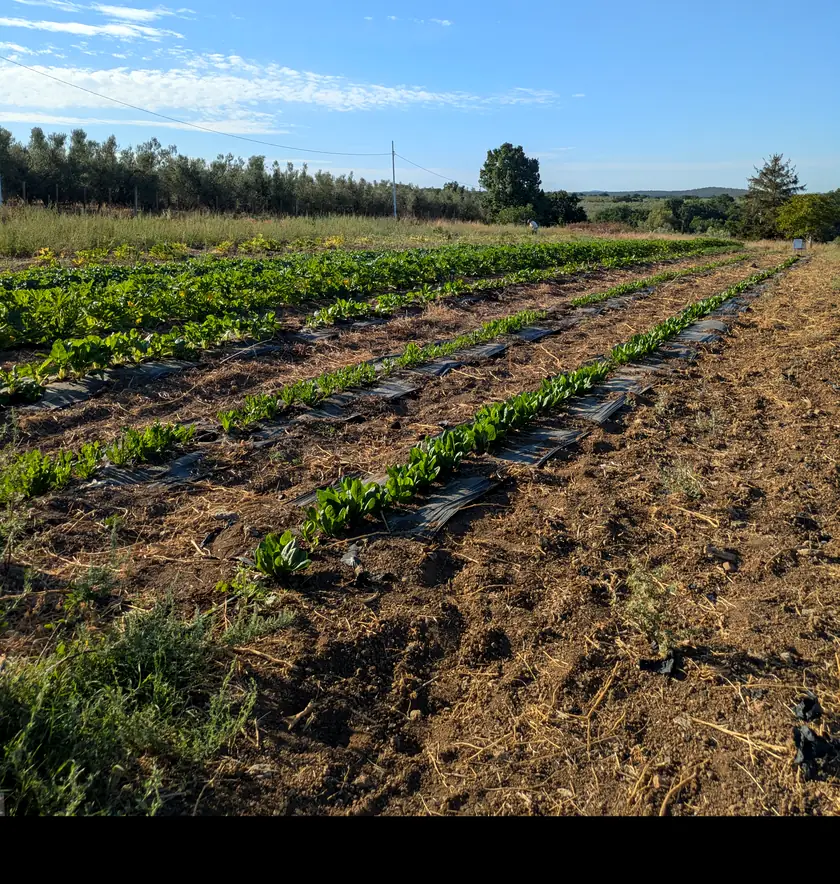
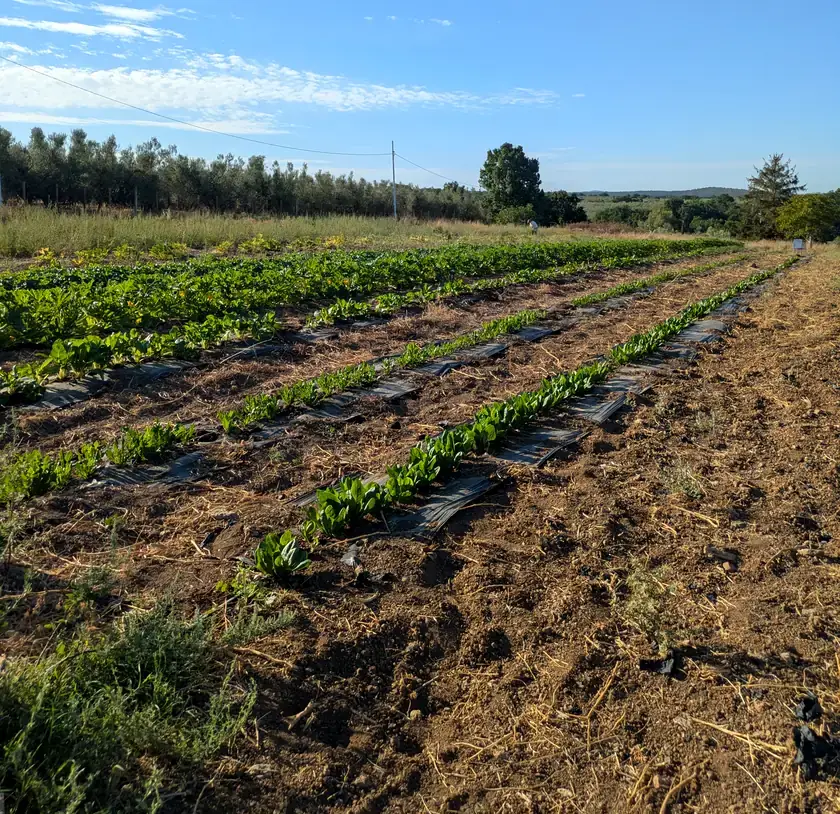
Campo 3D in apertura, con la foto vera del campo
Invece di ricostruire un campo finto, la foto reale riceve una profondita':
cielo e ulivi lontani, filari che si avvicinano verso il basso. Col mouse
(o inclinando il telefono, altrimenti ondeggia piano da solo) la scena gira
intorno a meta' campo: sul computer ulivi e cielo si spostano di ~20 px da
una parte, il primo piano di ~53 px dall'altra. Scorrendo si "entra" nel
campo: il primo piano si avvicina molto piu' dell'orizzonte. Settanta
granelli di polline a profondita' diverse seguono la stessa prospettiva.

WebGL puro in campo3d.js (9 KB), caricato a pagina pronta e solo se il
dispositivo lo regge: niente con "riduci movimento", risparmio dati o
processori da 2 core; se il WebGL manca resta la foto. Disegna solo mentre
l'apertura e' visibile. Verificato nel browser (tela pronta, 32 fps nel
pannello di prova) e riproducendo lo shader fotogramma per fotogramma su
computer e telefono.

Corretto anche un difetto della foto d'apertura per il telefono: il
ritaglio sforava il bordo dell'originale e in fondo c'erano 67 righe nere,
visibili sotto il pulsante. Tagliate. Cache offline a v18.

diff --git a/campo3d.js b/campo3d.js
@@ -1,0 +1,241 @@
+// Campo 3D in apertura.
+// La foto vera del campo riceve una profondita': cielo e ulivi lontani, filari che si
+// avvicinano verso il basso. Scorrendo si "entra" nel campo (le cose vicine si
+// ingrandiscono di piu'), col mouse o inclinando il telefono cambia la prospettiva.
+// Qualche granello di polline a profondita' diverse rende visibile lo spazio.
+// Se il WebGL non c'e', non succede niente: resta la foto normale.
+
+const VERTICE_FOTO = `
+attribute vec2 aPos;
+varying vec2 vUv;
+void main() {
+  vUv = vec2(aPos.x * 0.5 + 0.5, 0.5 - aPos.y * 0.5);
+  gl_Position = vec4(aPos, 0.0, 1.0);
+}`;
+
+const FRAMMENTO_FOTO = `
+precision mediump float;
+uniform sampler2D uFoto;
+uniform vec2 uScala;
+uniform vec2 uSpost;
+uniform vec2 uPunto;
+uniform float uAvanti;
+uniform float uOrizzonte;
+varying vec2 vUv;
+float vicinanza(float y) {
+  float s = clamp((y - uOrizzonte) / (1.0 - uOrizzonte), 0.0, 1.0);
+  return s * s * 0.7 + s * 0.3;
+}
+void main() {
+  vec2 uv = vUv * uScala + uSpost;
+  float n = vicinanza(uv.y);
+  vec2 fuga = vec2(0.5, uOrizzonte);
+  uv = fuga + (uv - fuga) / (1.0 + uAvanti * (0.08 + 0.62 * n));
+  uv += uPunto * vec2(0.052, 0.026) * (n - 0.15);
+  gl_FragColor = texture2D(uFoto, clamp(uv, vec2(0.002), vec2(0.998)));
+}`;
+
+const VERTICE_POLLINE = `
+attribute vec3 aSeme;
+uniform float uTempo;
+uniform vec2 uPunto;
+uniform float uAvanti;
+uniform float uOrizzonte;
+uniform float uDpr;
+varying float vAlfa;
+void main() {
+  float z = aSeme.z;
+  vec2 p = aSeme.xy;
+  p.y = fract(p.y - uTempo * (0.004 + 0.016 * z));
+  p.x += sin(uTempo * 0.45 + z * 23.0) * 0.012;
+  p += uPunto * vec2(0.052, 0.026) * (z - 0.15) * 1.6;
+  vec2 fuga = vec2(0.5, uOrizzonte);
+  p = fuga + (p - fuga) * (1.0 + uAvanti * (0.1 + 0.7 * z));
+  gl_Position = vec4(p.x * 2.0 - 1.0, 1.0 - p.y * 2.0, 0.0, 1.0);
+  gl_PointSize = (2.5 + z * 9.0) * uDpr * (1.0 + uAvanti * z);
+  vAlfa = 0.22 + 0.5 * z;
+}`;
+
+const FRAMMENTO_POLLINE = `
+precision mediump float;
+varying float vAlfa;
+void main() {
+  float d = length(gl_PointCoord - 0.5);
+  gl_FragColor = vec4(1.0, 0.9, 0.62, smoothstep(0.5, 0.05, d) * vAlfa);
+}`;
+
+function programma(gl, sorgenteV, sorgenteF) {
+  const crea = (tipo, testo) => {
+    const s = gl.createShader(tipo);
+    gl.shaderSource(s, testo);
+    gl.compileShader(s);
+    if (!gl.getShaderParameter(s, gl.COMPILE_STATUS)) throw new Error(gl.getShaderInfoLog(s));
+    return s;
+  };
+  const p = gl.createProgram();
+  gl.attachShader(p, crea(gl.VERTEX_SHADER, sorgenteV));
+  gl.attachShader(p, crea(gl.FRAGMENT_SHADER, sorgenteF));
+  gl.linkProgram(p);
+  if (!gl.getProgramParameter(p, gl.LINK_STATUS)) throw new Error(gl.getProgramInfoLog(p));
+  return p;
+}
+
+export function avviaCampo3D(hero) {
+  const foto = hero.querySelector("picture img") || hero.querySelector("img");
+  if (!foto || hero.querySelector(".campo-3d")) return null;
+
+  const tela = document.createElement("canvas");
+  tela.className = "campo-3d";
+  tela.setAttribute("aria-hidden", "true");
+  const gl = tela.getContext("webgl", { alpha: false, antialias: false, depth: false, powerPreference: "low-power" });
+  if (!gl) return null;
+
+  let pFoto, pPolline;
+  try {
+    pFoto = programma(gl, VERTICE_FOTO, FRAMMENTO_FOTO);
+    pPolline = programma(gl, VERTICE_POLLINE, FRAMMENTO_POLLINE);
+  } catch (_) {
+    return null;
+  }
+  (foto.closest("picture") || foto).after(tela);
+
+  // triangolo che copre tutto lo schermo
+  const bufTriangolo = gl.createBuffer();
+  gl.bindBuffer(gl.ARRAY_BUFFER, bufTriangolo);
+  gl.bufferData(gl.ARRAY_BUFFER, new Float32Array([-1, -1, 3, -1, -1, 3]), gl.STATIC_DRAW);
+
+  // granelli di polline: x, y, profondita'
+  const N_POLLINE = 70;
+  const semi = new Float32Array(N_POLLINE * 3);
+  for (let i = 0; i < N_POLLINE; i++) {
+    semi[i * 3] = Math.random();
+    semi[i * 3 + 1] = Math.random();
+    semi[i * 3 + 2] = Math.pow(Math.random(), 1.6);   // piu' granelli lontani che vicini
+  }
+  const bufPolline = gl.createBuffer();
+  gl.bindBuffer(gl.ARRAY_BUFFER, bufPolline);
+  gl.bufferData(gl.ARRAY_BUFFER, semi, gl.STATIC_DRAW);
+
+  const u = (p, nome) => gl.getUniformLocation(p, nome);
+  const U = {
+    foto: u(pFoto, "uFoto"), scala: u(pFoto, "uScala"), spost: u(pFoto, "uSpost"),
+    punto: u(pFoto, "uPunto"), avanti: u(pFoto, "uAvanti"), orizzonte: u(pFoto, "uOrizzonte"),
+    pTempo: u(pPolline, "uTempo"), pPunto: u(pPolline, "uPunto"), pAvanti: u(pPolline, "uAvanti"),
+    pOrizzonte: u(pPolline, "uOrizzonte"), pDpr: u(pPolline, "uDpr")
+  };
+  const aPos = gl.getAttribLocation(pFoto, "aPos");
+  const aSeme = gl.getAttribLocation(pPolline, "aSeme");
+
+  const texture = gl.createTexture();
+  let sorgente = "", orizzonte = 0.34, larghezzaFoto = 1, altezzaFoto = 1, pronta = false;
+  const caricaFoto = () => {
+    if (!foto.complete || !foto.naturalWidth) return;
+    if (foto.currentSrc === sorgente) return;
+    sorgente = foto.currentSrc;
+    orizzonte = /mobile/.test(sorgente) ? 0.29 : 0.34;   // dove iniziano i campi in ciascuna foto
+    larghezzaFoto = foto.naturalWidth;
+    altezzaFoto = foto.naturalHeight;
+    gl.bindTexture(gl.TEXTURE_2D, texture);
+    gl.pixelStorei(gl.UNPACK_FLIP_Y_WEBGL, false);
+    gl.texImage2D(gl.TEXTURE_2D, 0, gl.RGB, gl.RGB, gl.UNSIGNED_BYTE, foto);
+    gl.texParameteri(gl.TEXTURE_2D, gl.TEXTURE_MIN_FILTER, gl.LINEAR);
+    gl.texParameteri(gl.TEXTURE_2D, gl.TEXTURE_MAG_FILTER, gl.LINEAR);
+    gl.texParameteri(gl.TEXTURE_2D, gl.TEXTURE_WRAP_S, gl.CLAMP_TO_EDGE);
+    gl.texParameteri(gl.TEXTURE_2D, gl.TEXTURE_WRAP_T, gl.CLAMP_TO_EDGE);
+    pronta = true;
+  };
+
+  let dpr = 1;
+  const misura = () => {
+    dpr = Math.min(window.devicePixelRatio || 1, 1.5);
+    const w = Math.max(1, Math.round(hero.clientWidth * dpr));
+    const h = Math.max(1, Math.round(hero.clientHeight * dpr));
+    if (tela.width !== w || tela.height !== h) { tela.width = w; tela.height = h; }
+    caricaFoto();
+  };
+
+  // ingressi: mouse, inclinazione del telefono, altrimenti un leggero ondeggiare da solo
+  const obiettivo = { x: 0, y: 0 }, punto = { x: 0, y: 0 };
+  tela.statoCampo = { obiettivo, punto };   // per controllare l'effetto dall'esterno
+  let ultimoIngresso = -1e9;
+  window.addEventListener("mousemove", e => {
+    obiettivo.x = e.clientX / window.innerWidth * 2 - 1;
+    obiettivo.y = e.clientY / window.innerHeight * 2 - 1;
+    ultimoIngresso = performance.now();
+  }, { passive: true });
+  window.addEventListener("deviceorientation", e => {
+    if (e.gamma == null || e.beta == null) return;
+    obiettivo.x = Math.max(-1, Math.min(1, e.gamma / 25));
+    obiettivo.y = Math.max(-1, Math.min(1, (e.beta - 45) / 25));
+    ultimoIngresso = performance.now();
+  }, { passive: true });
+
+  let inVista = true, inCorsa = false;
+  const disegna = ora => {
+    const t = ora / 1000;
+    if (ora - ultimoIngresso > 3000) {
+      obiettivo.x = Math.sin(t * 0.23) * 0.55;
+      obiettivo.y = Math.cos(t * 0.17) * 0.3;
+    }
+    punto.x += (obiettivo.x - punto.x) * 0.05;
+    punto.y += (obiettivo.y - punto.y) * 0.05;
+    const avanti = Math.max(0, Math.min(1, window.scrollY / (hero.offsetHeight * 0.9)));
+
+    misura();
+    if (!pronta) return;
+    gl.viewport(0, 0, tela.width, tela.height);
+
+    // copertura come object-fit: cover, con un 10% di margine per i movimenti
+    const aTela = tela.width / tela.height, aFoto = larghezzaFoto / altezzaFoto;
+    let sx = 1, sy = 1;
+    if (aTela > aFoto) sy = aFoto / aTela; else sx = aTela / aFoto;
+    sx *= 0.9; sy *= 0.9;
+
+    gl.disable(gl.BLEND);
+    gl.useProgram(pFoto);
+    gl.bindBuffer(gl.ARRAY_BUFFER, bufTriangolo);
+    gl.enableVertexAttribArray(aPos);
+    gl.vertexAttribPointer(aPos, 2, gl.FLOAT, false, 0, 0);
+    gl.activeTexture(gl.TEXTURE0);
+    gl.bindTexture(gl.TEXTURE_2D, texture);
+    gl.uniform1i(U.foto, 0);
+    gl.uniform2f(U.scala, sx, sy);
+    gl.uniform2f(U.spost, (1 - sx) / 2, (1 - sy) / 2);
+    gl.uniform2f(U.punto, punto.x, punto.y);
+    gl.uniform1f(U.avanti, avanti);
+    gl.uniform1f(U.orizzonte, orizzonte);
+    gl.drawArrays(gl.TRIANGLES, 0, 3);
+    gl.disableVertexAttribArray(aPos);
+
+    gl.enable(gl.BLEND);
+    gl.blendFunc(gl.SRC_ALPHA, gl.ONE_MINUS_SRC_ALPHA);
+    gl.useProgram(pPolline);
+    gl.bindBuffer(gl.ARRAY_BUFFER, bufPolline);
+    gl.enableVertexAttribArray(aSeme);
+    gl.vertexAttribPointer(aSeme, 3, gl.FLOAT, false, 0, 0);
+    gl.uniform1f(U.pTempo, t);
+    gl.uniform2f(U.pPunto, punto.x, punto.y);
+    gl.uniform1f(U.pAvanti, avanti);
+    gl.uniform1f(U.pOrizzonte, orizzonte);
+    gl.uniform1f(U.pDpr, dpr);
+    gl.drawArrays(gl.POINTS, 0, N_POLLINE);
+    gl.disableVertexAttribArray(aSeme);
+
+    if (!tela.classList.contains("pronto")) tela.classList.add("pronto");
+  };
+  const ciclo = ora => {
+    if (!inVista || document.hidden) { inCorsa = false; return; }
+    disegna(ora);
+    requestAnimationFrame(ciclo);
+  };
+  const avvia = () => { if (!inCorsa && inVista && !document.hidden) { inCorsa = true; requestAnimationFrame(ciclo); } };
+
+  new IntersectionObserver(voci => { inVista = voci.some(v => v.isIntersecting); avvia(); }).observe(hero);
+  document.addEventListener("visibilitychange", avvia);
+  window.addEventListener("resize", misura);
+  foto.addEventListener("load", () => { caricaFoto(); avvia(); });
+  tela.addEventListener("webglcontextlost", e => { e.preventDefault(); tela.remove(); });
+  misura();
+  avvia();
+  return tela;
+}

diff --git a/styles.css b/styles.css
@@ -135,6 +135,8 @@ em { font-family: Georgia, "Times New Roman", serif; font-weight: 400; }
 .hero { height: min(760px, calc(100vh - var(--header-height))); min-height: 620px; position: relative; overflow: hidden; background: var(--green-deep); }
 .hero { border-radius: 0 0 32px 32px; }
 .hero > img, .hero > picture, .hero > picture > img { width: 100%; height: 100%; object-fit: cover; display: block; }
+.hero .campo-3d { position: absolute; inset: 0; width: 100%; height: 100%; display: block; opacity: 0; transition: opacity .9s ease; pointer-events: none; }
+.hero .campo-3d.pronto { opacity: 1; }
 .hero-shade { position: absolute; inset: 0; background: linear-gradient(90deg, rgba(19,35,24,.02) 0%, rgba(19,35,24,.13) 40%, rgba(19,35,24,.78) 100%); }
 .hero-content { position: absolute; width: min(540px, 42vw); right: max(7vw, calc((100vw - 1180px)/2)); top: 50%; transform: translateY(-50%); color: #fffaf0; }
 .eyebrow { font-size: .8rem; letter-spacing: .2em; font-weight: 900; color: var(--terracotta); margin: 0 0 18px; }

diff --git a/app.js b/app.js
@@ -1507,6 +1507,17 @@ function setupGalleria3D() {
   frecce.forEach(b => b.hidden = false);
 }
 
+// Campo 3D in apertura: si carica a pagina pronta, solo se il telefono lo regge.
+function setupCampo3D() {
+  const hero = $(".hero");
+  if (!hero || matchMedia("(prefers-reduced-motion: reduce)").matches) return;
+  if (navigator.connection?.saveData) return;
+  if (navigator.hardwareConcurrency && navigator.hardwareConcurrency <= 2) return;
+  const parti = () => import("./campo3d.js").then(m => m.avviaCampo3D(hero)).catch(() => {});
+  if ("requestIdleCallback" in window) requestIdleCallback(parti, { timeout: 1500 });
+  else setTimeout(parti, 700);
+}
+
 function setupReveal() {
   const observer = new IntersectionObserver(entries => {
     entries.forEach(entry => {
@@ -1545,6 +1556,7 @@ function init() {
   setupReveal();
   setupInclinazione3D();
   setupGalleria3D();
+  setupCampo3D();
   updateSummary();
   renderDashboard();
   if (!importOrderFromHash()) openInitialRoute();

diff --git a/sw.js b/sw.js
@@ -1,4 +1,4 @@
-const CACHE_NAME = "sole-terra-acqua-v17";
+const CACHE_NAME = "sole-terra-acqua-v18";
 
 // Solo l'essenziale per far comparire il sito subito, anche senza rete.
 // Tutto il resto (foto della galleria, immagini del catalogo) viene messo in
